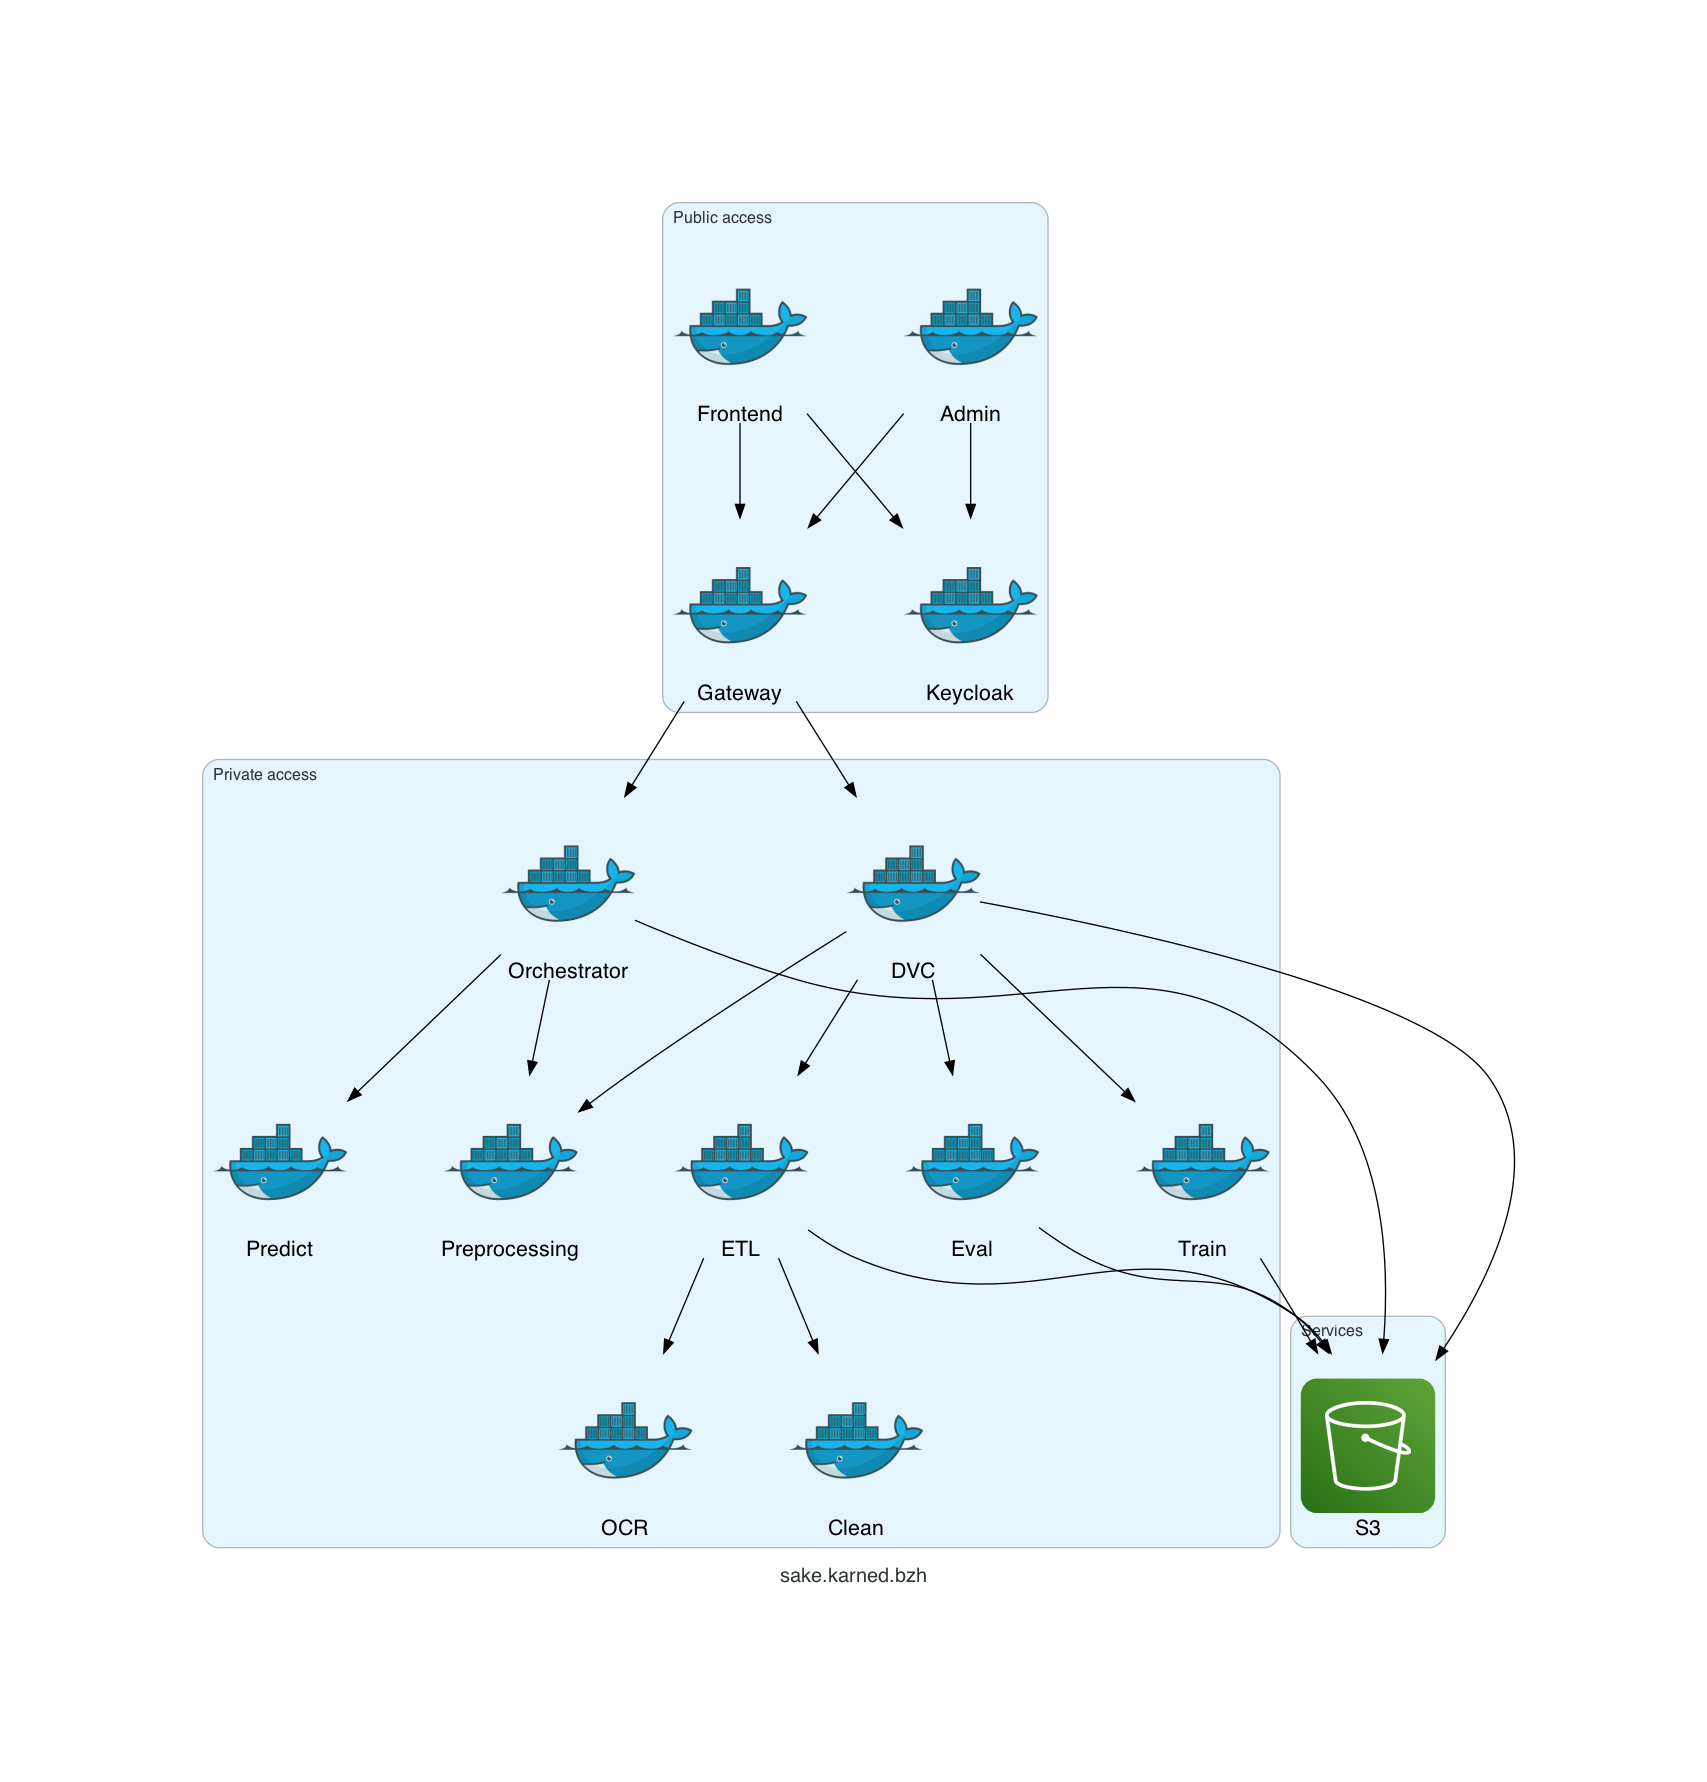
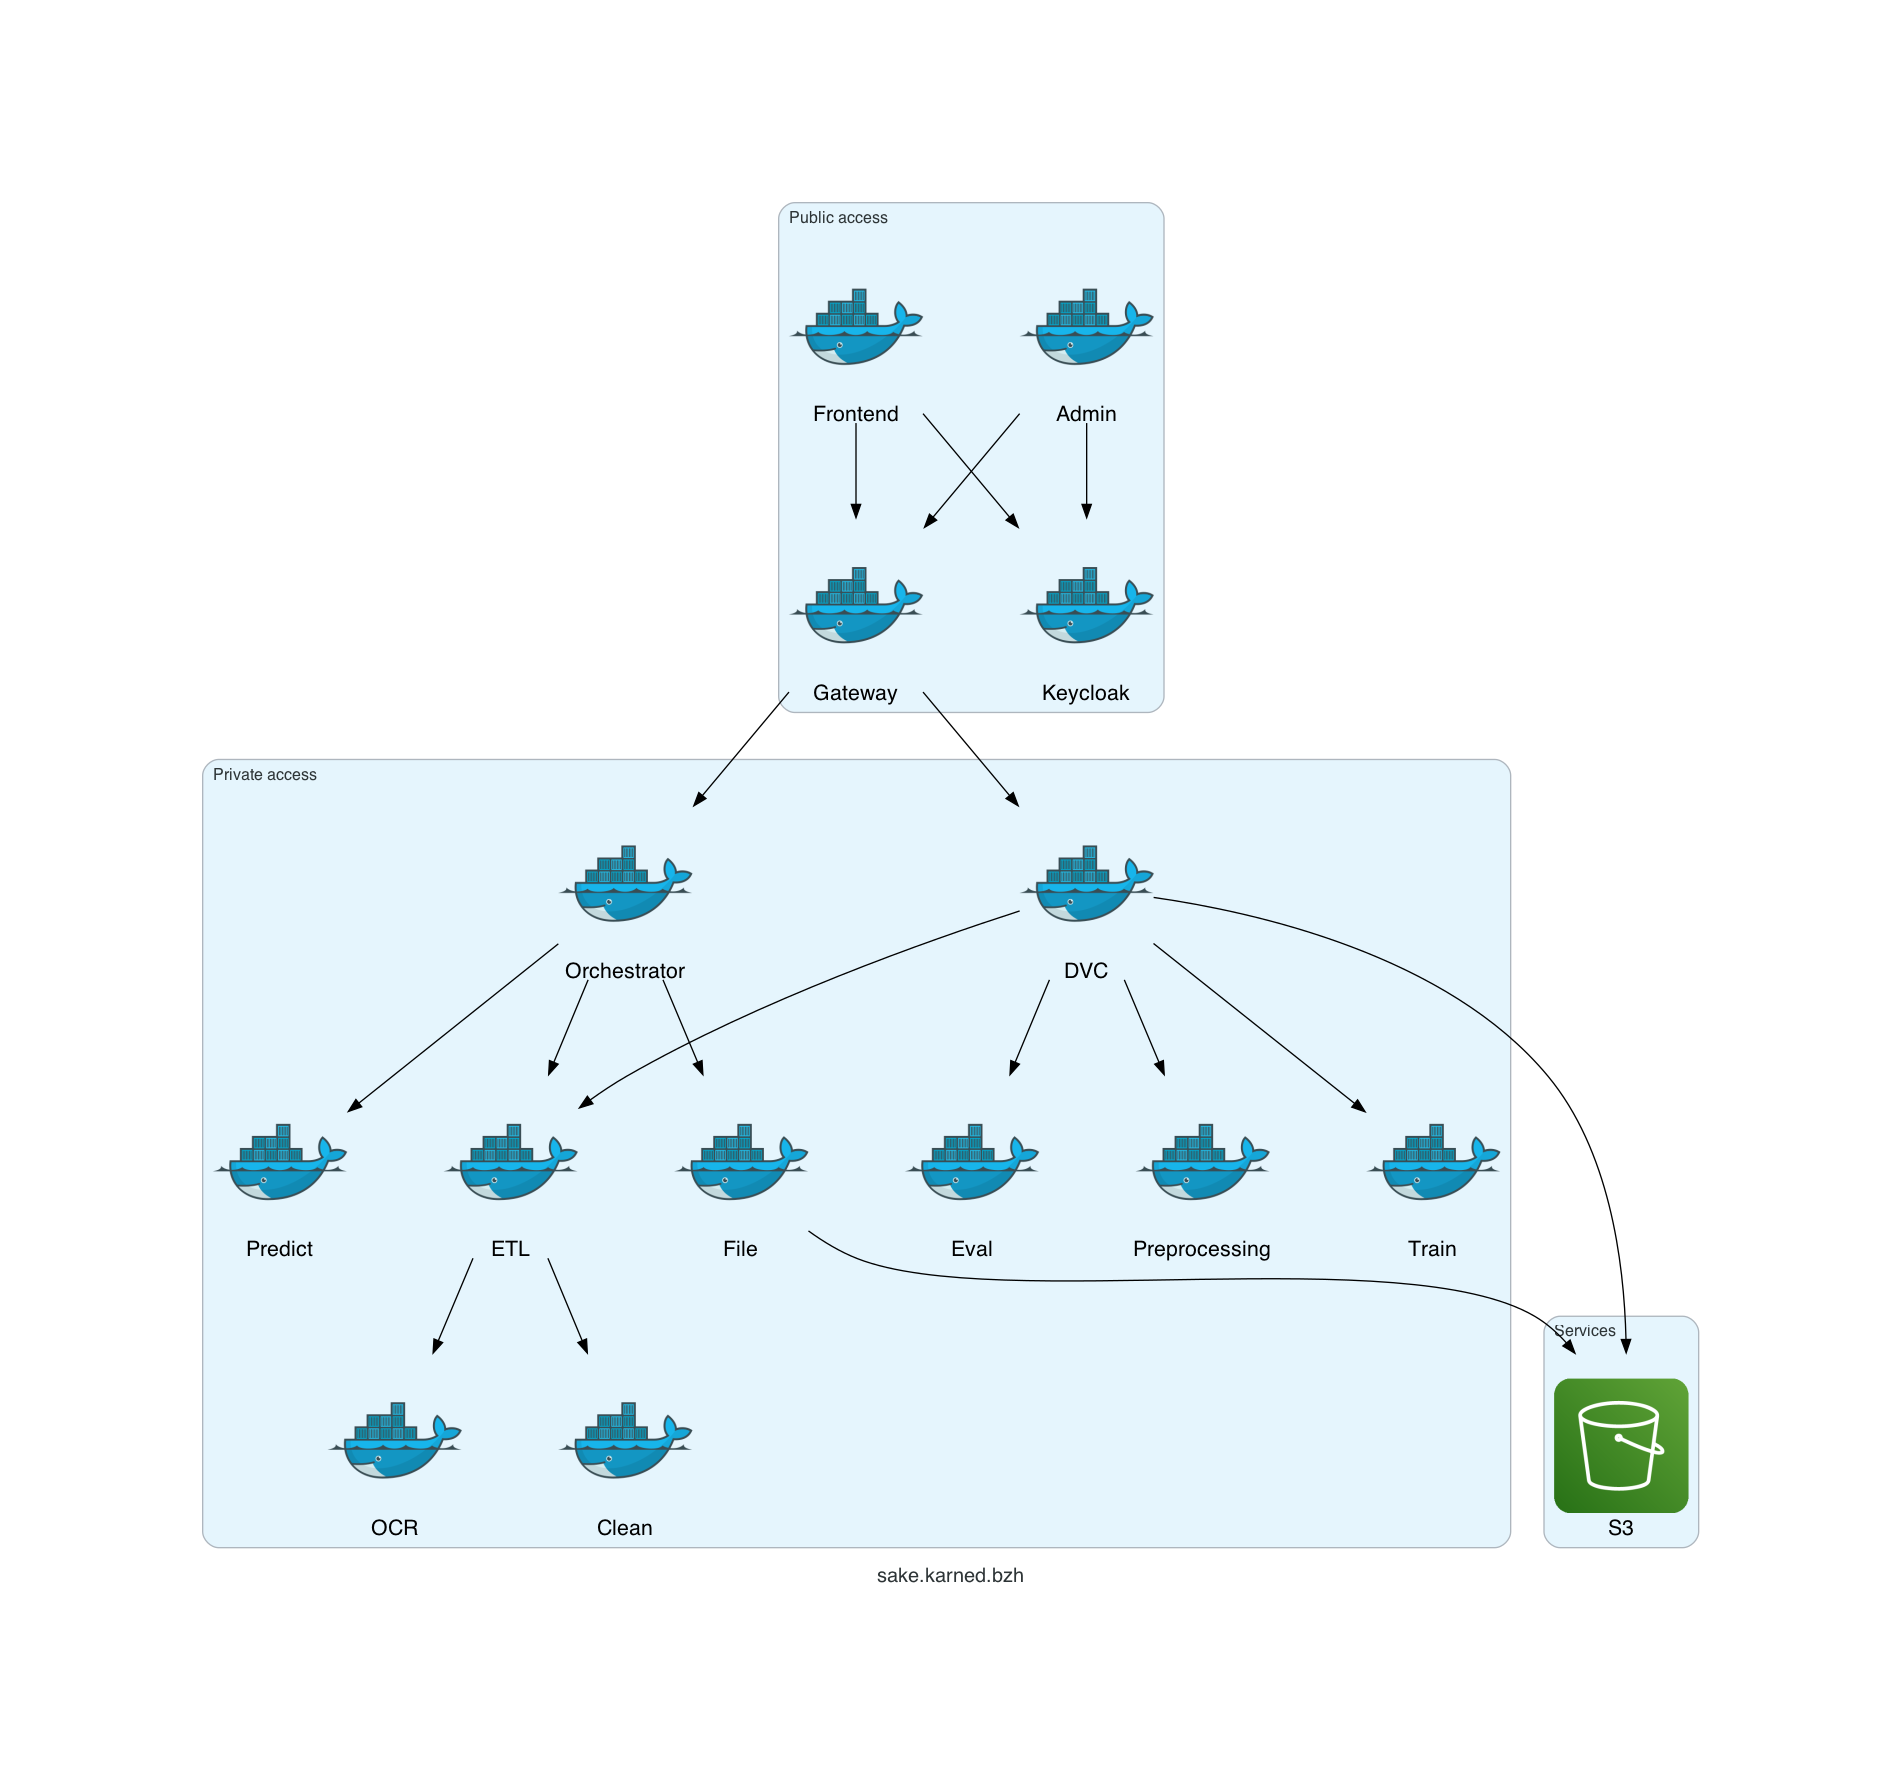
nettoyage

diff --git a/docs/dockers.py b/docs/dockers.py
@@ -42,6 +42,7 @@ with (Diagram("sake.karned.bzh", show = False, graph_attr = graph_attr, node_att
         predict = Docker("Predict")
         orchestrator = Docker("Orchestrator")
         dvc = Docker("DVC")
+        file = Docker("File")
 
     with Cluster("Services", direction = "TB"):
         s3 = SimpleStorageServiceS3("S3")
@@ -62,13 +63,9 @@ with (Diagram("sake.karned.bzh", show = False, graph_attr = graph_attr, node_att
     etl >> ocr
     etl >> clean
 
-
-
-    orchestrator >> preprocessing
+    orchestrator >> etl
     orchestrator >> predict
+    orchestrator >> file
 
     dvc >> s3
-    orchestrator >> s3
-    etl >> s3
-    train >> s3
-    eval >> s3
+    file >> s3
